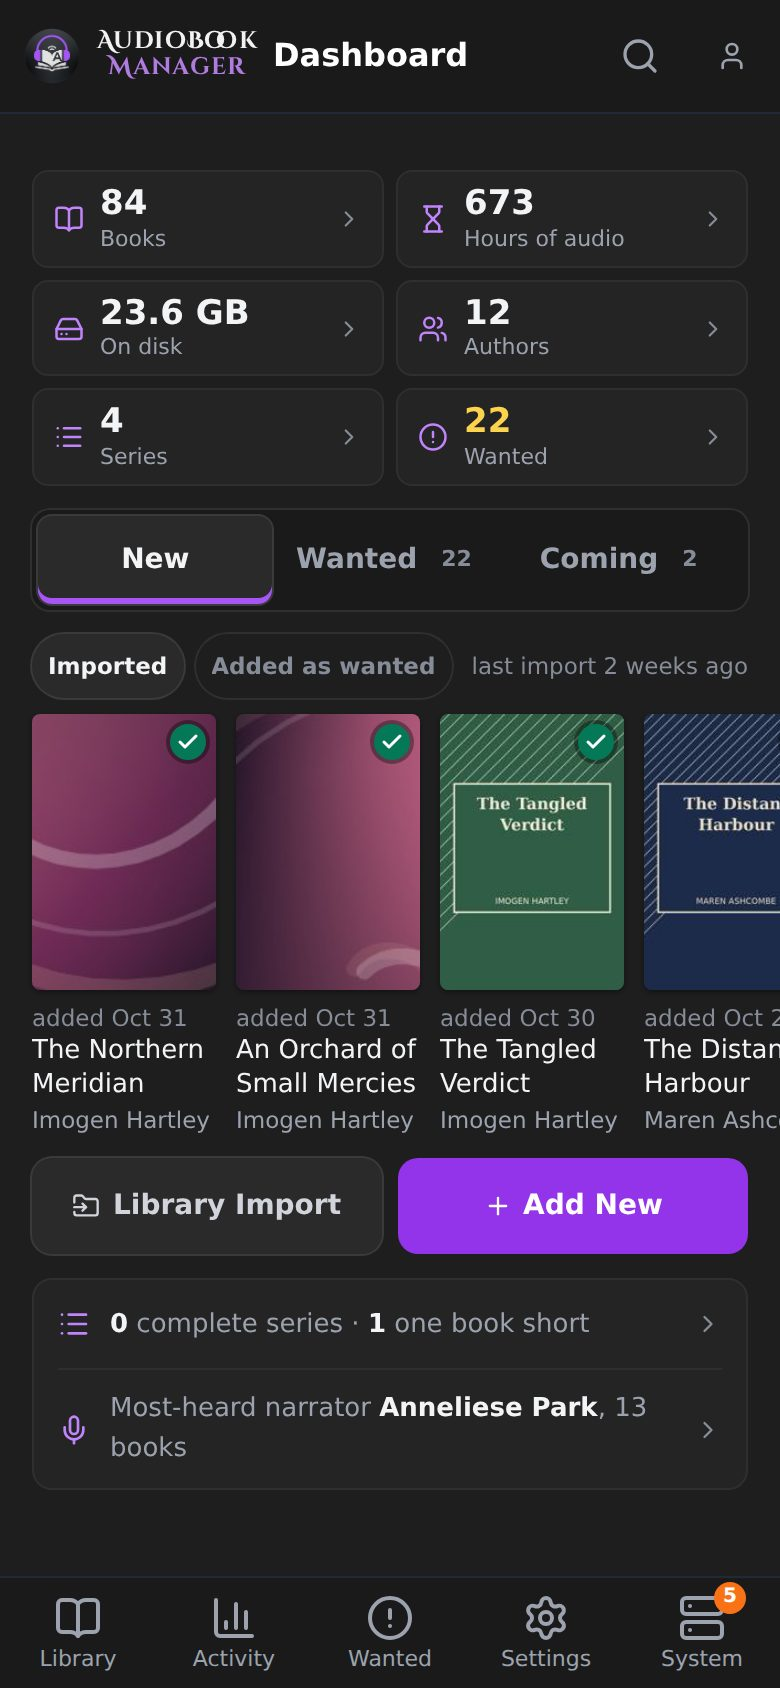
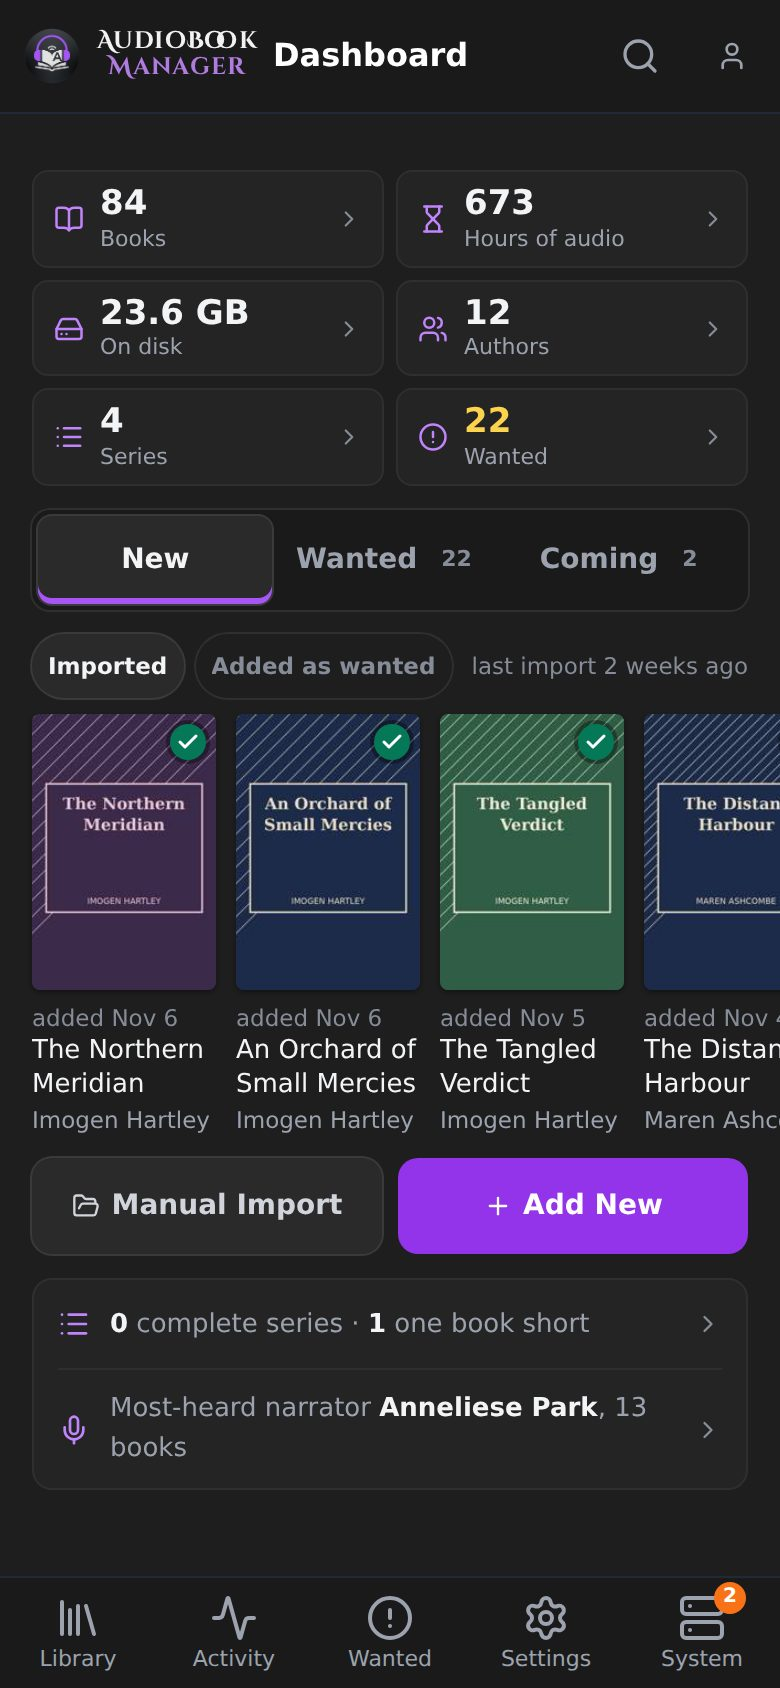
retake the dashboard shots with manual import under new in your library, say the dashboard offers manual import with library import only for an empty library, and regenerate the api reference from the dashboard branch instead of keeping library import and the old task queue route

diff --git a/src/content/docs/using/dashboard.md b/src/content/docs/using/dashboard.md
@@ -10,7 +10,7 @@ The **Dashboard** is the first page ABM opens. It sums up your library and what 
 ## What it shows
 
 - **Your library** gives the totals: books, hours of audio, size on disk, authors, series and missing books. The Books figure also says how many have files and how many are missing, and the Series figure says how many series are complete and how many are one book short.
-- **New in your library** has two tabs. **Imported** shows the books whose files came in most recently. **Added as wanted** shows the newest books on the [Missing](/using/wanted/) list. [Library Import](/library-import/) and [Add New](/using/add-new/) sit right below.
+- **New in your library** has two tabs. **Imported** shows the books whose files came in most recently. **Added as wanted** shows the newest books on the [Missing](/using/wanted/) list. **Manual Import** and [Add New](/using/add-new/) sit right below. While your library is still empty and has a root folder, [Library Import](/library-import/) takes Manual Import's place.
 - **Coming soon** lists releases from your authors and series over the next 14 days, today included. It draws on the same books as the [Calendar](/using/calendar/), so only monitored books count.
 - **Missing** shows monitored books you don't have yet, five at a time, each with its own **Search** button. **Search all wanted** queues a search for every one of them after you confirm.
 - **Series completion** counts your series that are complete, one book short, or missing more. Each count opens the Series page with that filter. The series that are one book short are listed with a **Search missing** button, and **Formats** links to the books waiting for a better format (**Wanted > Cutoff Unmet**).
